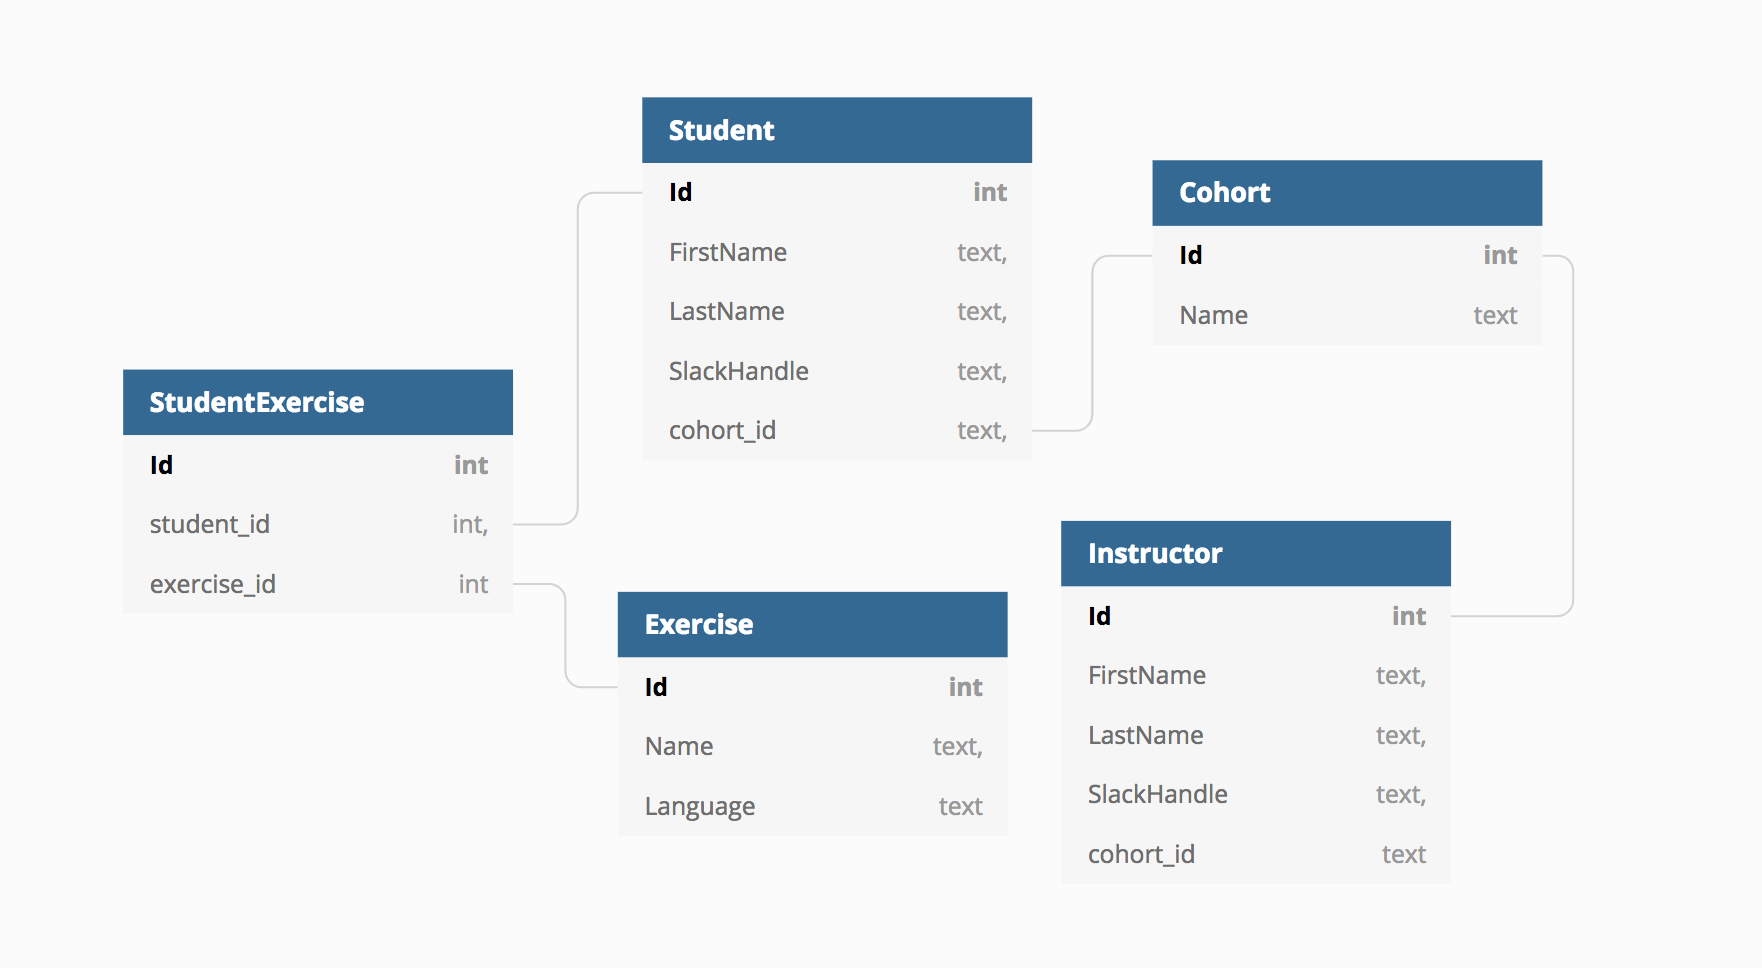
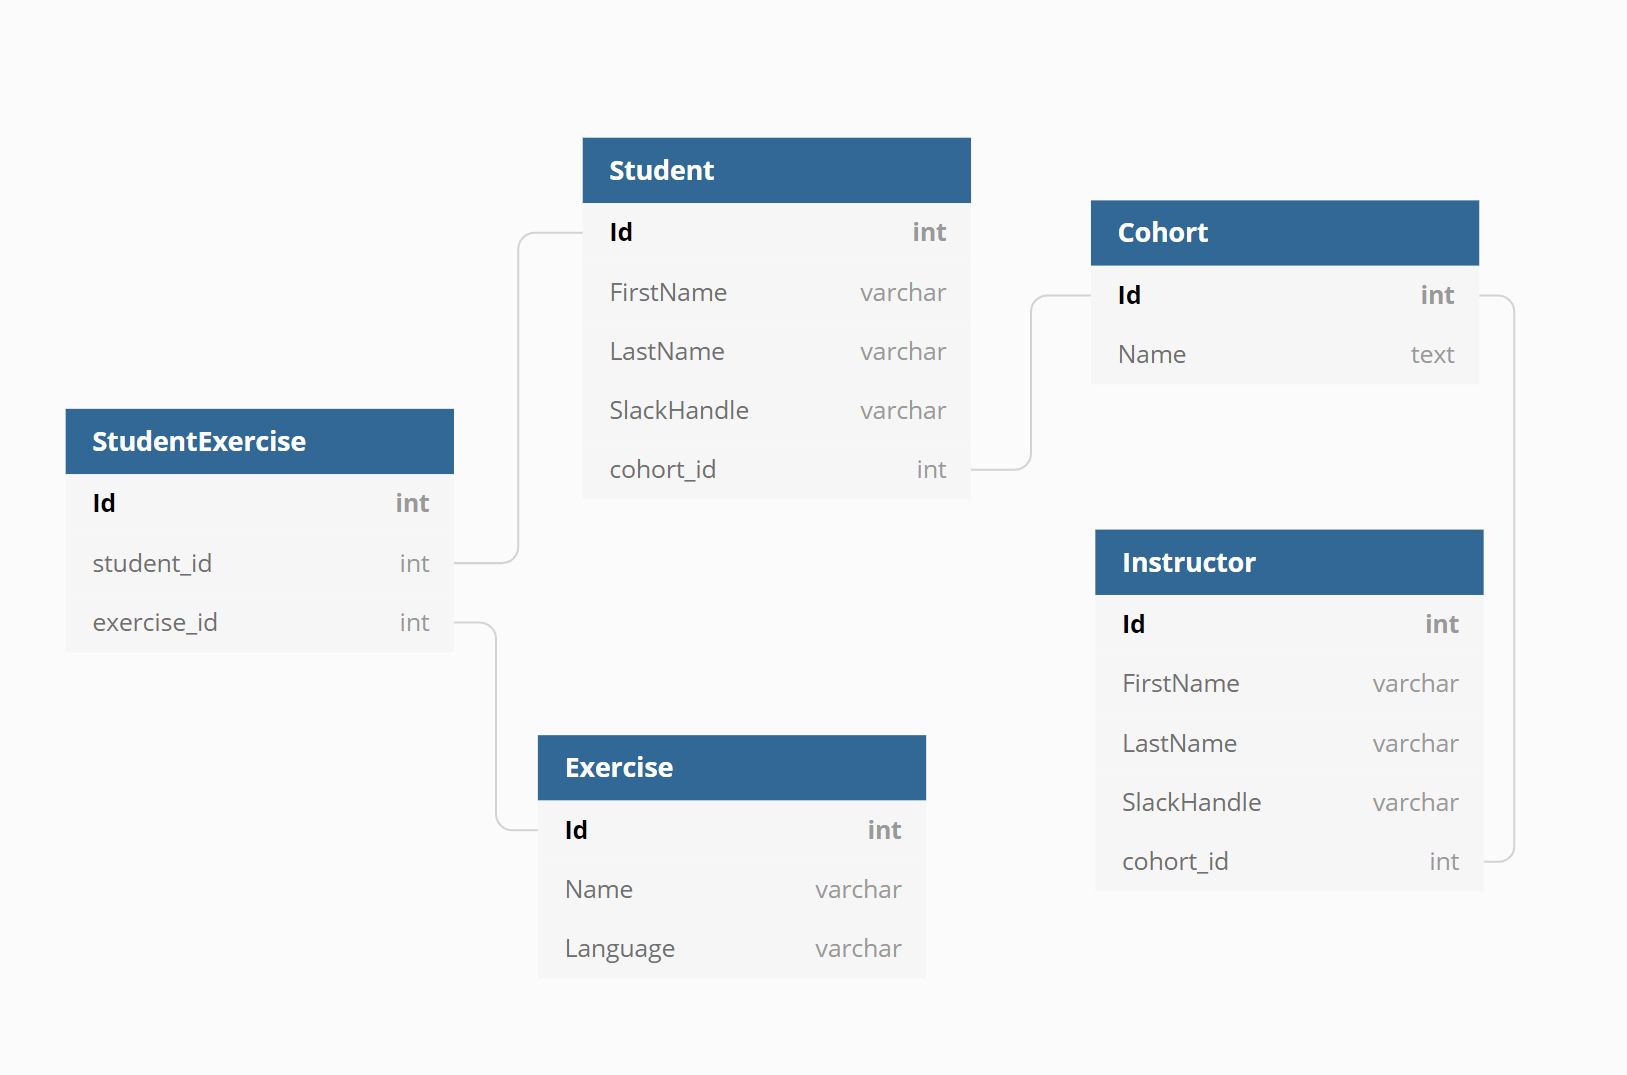
fixed the cohort reference and updated ERD

diff --git a/Instructor.cs b/Instructor.cs
@@ -7,13 +7,11 @@ namespace studentExercises
         public string FirstName { get; set; }
         public string LastName { get; set; }
         public string SlackHandle { get; set; }
-        public Cohort CohortName { get; set; }
+        public Cohort Cohort { get; set; }
         public void AssignExercise(Student student, Exercise exercise)
         {
-
             student.ExerciseList.Add(exercise);
-            Console.WriteLine($"Instructor {FirstName} assigned the exercise, {exercise.ExerciseName}, to {student.FirstName}");
-
+            Console.WriteLine($"Instructor {FirstName} assigned the exercise, {exercise.ExerciseName}, to {student.FirstName} ");
         }
 
         public Instructor(string firstName, string lastName, string slackHandle, Cohort cohortName)
@@ -21,7 +19,7 @@ namespace studentExercises
             FirstName = firstName;
             LastName = lastName;
             SlackHandle = slackHandle;
-            CohortName = cohortName;
+            Cohort = cohortName;
         }
     }
 

diff --git a/Program.cs b/Program.cs
@@ -16,12 +16,9 @@ namespace studentExercises
 
 
             // Create 3, or more, cohorts.
-            Cohort Cohort29 = new Cohort();
-            Cohort29.CohortName = "Cohort 29";
-            Cohort Cohort30 = new Cohort();
-            Cohort30.CohortName = "Cohort 30";
-            Cohort Cohort31 = new Cohort();
-            Cohort31.CohortName = "Cohort 31";
+            Cohort Cohort29 = new Cohort("Cohort 29");
+            Cohort Cohort30 = new Cohort("Cohort 30");
+            Cohort Cohort31 = new Cohort("Cohort 31");
 
             // Create 4, or more, students and assign them to one of the cohorts.
             Student Alison = new Student("Alison", "Collins", "@alison");

diff --git a/Cohort.cs b/Cohort.cs
@@ -8,8 +8,9 @@ namespace studentExercises
         public List<Student> StudentList { get; set; }
         public List<Instructor> InstructorList { get; set; }
 
-        public Cohort()
+        public Cohort(string cohortName)
         {
+            CohortName = cohortName;
             StudentList = new List<Student>();
             InstructorList = new List<Instructor>();
         }

diff --git a/Student.cs b/Student.cs
@@ -6,7 +6,7 @@ namespace studentExercises
         public string FirstName { get; set; }
         public string LastName { get; set; }
         public string SlackHandle { get; set; }
-        public string CohortName { get; set; }
+        public Cohort Cohort { get; set; }
 
         //The collection of exercises that the student is currently working on
 
